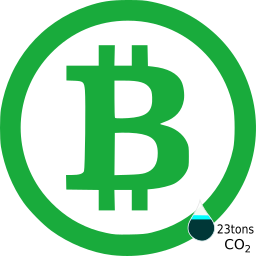
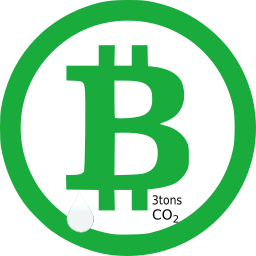
btc-g updated on 22-05-03

Changed region(s): [[0.5938, 0.75, 1.0, 1.0], [0.25, 0.8125, 0.375, 0.9062]]

diff --git a/btcg/btc-g.js b/btcg/btc-g.js
@@ -3,9 +3,12 @@
  const ticker = 'btcg';
  const gw = 'https://ipfs.safewatch.care';
  const immutable = 'QmXg18831o6mizuSeBpDEU7WZcpegVLdNd3goQYm6tB17S';
+ const mutable = 'QmUs6X2QHrPSAW9mZYtHGNCDjMDWTk7cg3EiEQ1Ao4PvL9';
  let path = 'https://raw.githubusercontent.com/PurpleZone/NFTs/'+ticker
+     path = 'https://cdn.jsdelivr.net/gh/PurpleZone/NFTs@latest/'+ticker
+     //path = gw+'/ipfs/'+immutable;
+     //path = gw+'/ipns/'+mutable;
      path = location.pathname.replace(/\/[^/]*$/,'');
-     path = gw+'/ipfs/'+immutable;
  console.log('path:',path);
  fetch(path+`/${symb}.json`).then(resp => resp.json()).
    then(cfg => {
@@ -13,9 +16,19 @@
    document.getElementById('clickable').addEventListener('click',
         function() { location.href = path+'/factsheet.html'; }
         );
-     if (typeof(cfg.name) != 'undefined') {
-       document.getElementById('co2weight').innerHTML = `${cfg.fprint}`;
+     let p = 100.0;
+     if (typeof(cfg.level) != 'undefined') {
+       p =  parseFloat(cfg.level.replace('%$',''));
+       let y =  86 * p / 100;
+       console.log('y:',y);
+       document.getElementById('level').setAttribute('y',y);
+       console.log('levelid:',document.getElementById('level'));
      }
+     if (typeof(cfg.footprint) != 'undefined') {
+       let co2 = parseFloat(cfg.footprint.replace('kg','') * (100 - p ) / 100;
+       document.getElementById('co2weight').innerHTML = `${co2}kg`;
+     }
+
      return cfg;
    }).
    catch(console.error);
